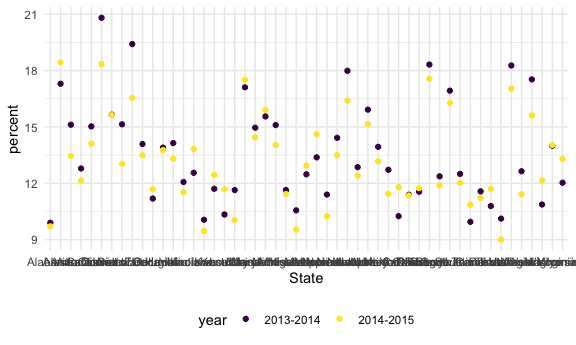
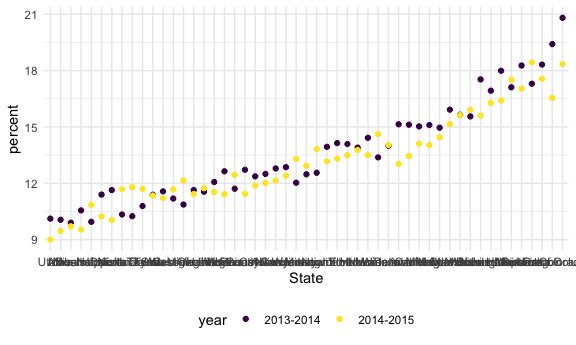
fct_recode

diff --git a/reading_from_web.md b/reading_from_web.md
@@ -127,8 +127,79 @@ Do dataframe stuff
 ``` r
 marj_df %>% 
   filter(age == "12-17") %>% 
+  mutate(
+    State = fct_reorder(State, percent)) %>%  #51:00
   ggplot(aes(x = State, y = percent, color = year)) +
   geom_point()
 ```
 
 <img src="reading_from_web_files/figure-gfm/unnamed-chunk-9-1.png" width="90%" />
+
+## Restaurant Inspections
+
+``` r
+data("rest_inspec")
+```
+
+``` r
+rest_inspec %>% 
+  janitor::tabyl(boro, grade)
+```
+
+    ##           boro     A     B    C Not Yet Graded   P    Z   NA_
+    ##          BRONX 13688  2801  701            200 163  351 16833
+    ##       BROOKLYN 37449  6651 1684            702 416  977 51930
+    ##      MANHATTAN 61608 10532 2689            765 508 1237 80615
+    ##        Missing     4     0    0              0   0    0    13
+    ##         QUEENS 35952  6492 1593            604 331  913 45816
+    ##  STATEN ISLAND  5215   933  207             85  47  149  6730
+
+``` r
+rest_inspec = 
+  rest_inspec %>% 
+  filter(
+    str_detect(grade, "[ABC]"),
+    !(boro == "Missing")) %>% 
+  mutate(
+    boro = str_to_title(boro))
+```
+
+``` r
+rest_inspec %>% 
+  filter(str_detect(dba, "[Pp][Ii][Zz][Zz][Aa]")) %>% 
+  janitor::tabyl(boro, grade)
+```
+
+    ##           boro    A   B  C
+    ##          Bronx 1170 305 56
+    ##       Brooklyn 1948 296 61
+    ##      Manhattan 1983 420 76
+    ##         Queens 1647 259 48
+    ##  Staten Island  323 127 21
+
+``` r
+rest_inspec %>% 
+  filter(str_detect(dba, "[Pp][Ii][Zz][Zz][Aa]")) %>% 
+  mutate(
+    boro = fct_infreq(boro) #1:06:00
+  ) %>% 
+  ggplot(aes(x = boro, fill = grade)) +
+  geom_bar()
+```
+
+<img src="reading_from_web_files/figure-gfm/unnamed-chunk-14-1.png" width="90%" />
+
+What about changing a label
+
+``` r
+rest_inspec %>% 
+  filter(str_detect(dba, "[Pp][Ii][Zz][Zz][Aa]")) %>% 
+  mutate(
+    boro = fct_infreq(boro),
+    boro = fct_recode(boro, "The City" = "Manhattan")
+  ) %>% 
+  ggplot(aes(x = boro, fill = grade)) +
+  geom_bar()
+```
+
+<img src="reading_from_web_files/figure-gfm/unnamed-chunk-15-1.png" width="90%" />
